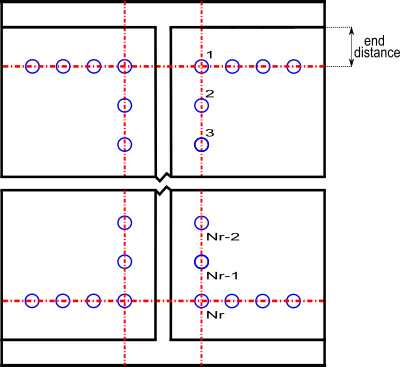
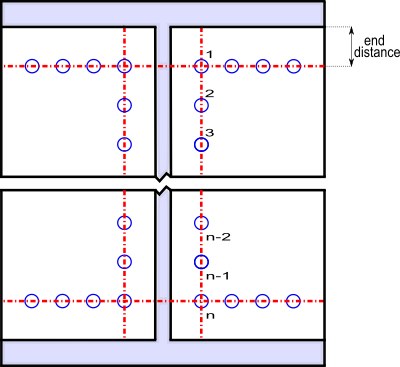
ccep images added

Changed region(s): [[0.0, 0.0, 0.87, 1.0], [0.9, 0.0899, 1.0, 0.1798], [0.87, 0.1499, 0.9, 0.1798]]

diff --git a/design_type/connection/column_end_plate.py b/design_type/connection/column_end_plate.py
@@ -353,14 +353,14 @@ class ColumnEndPlate(MomentConnection):
     def web_bolt_spacing(self, flag):
         web_bolt_spacing = []
 
-        t00 = (None, "", TYPE_NOTE, "Representative Image for Spacing Details - 3 x 3 pattern considered")
+        t00 = (None, "", TYPE_NOTE, "Representative Image for Web Bolt Spacing Details")
         web_bolt_spacing.append(t00)
 
         # t99 = (None, 'Spacing Details', TYPE_SECTION, './ResourceFiles/images/spacing_1.png')
         # spacing.append(t99)
 
         t99 = (None, 'Spacing Details', TYPE_SECTION,
-               ['./ResourceFiles/images/spacing_4.png', 400, 367, ""])  # [image, width, height, caption]
+               ['./ResourceFiles/images/spacing_4.png', 400, 367, "Web Bolt Spacing for (n) Bolts"])  # [image, width, height, caption]
         web_bolt_spacing.append(t99)
         # t2 = (KEY_OUT_PITCH, KEY_OUT_DISP_PITCH, TYPE_TEXTBOX, self.pitch if flag else '', True)
         # web_bolt_spacing.append(t2)
@@ -394,20 +394,48 @@ class ColumnEndPlate(MomentConnection):
     def flange_bolt_spacing(self, flag):
         flange_bolt_spacing = []
 
-        t00 = (None, "", TYPE_NOTE, "Representative Image for Spacing Details - 3 x 3 pattern considered")
+        if self.connection == 'Flush End Plate':
+            image = './ResourceFiles/images/spacing_5.png'
+            x,y = 400,256
+            bolts = int(self.n_bf_output/4)
+        else:
+            image = './ResourceFiles/images/spacing_6.png'
+            x, y = 400, 343
+            bolts = int(self.n_bf_output / 8)
+
+        t00 = (None, "", TYPE_NOTE, "Representative Image for Flange Bolt Spacing Details")
         flange_bolt_spacing.append(t00)
 
         # t99 = (None, 'Spacing Details', TYPE_SECTION, './ResourceFiles/images/spacing_1.png')
         # spacing.append(t99)
         t99 = (None, 'Spacing Details', TYPE_SECTION,
-               ['./ResourceFiles/images/spacing_1.png', 400, 278, ""])  # [image, width, height, caption]
+               [image, x, y, "Top Half Flange Bolt Spacing for (n) Bolts"])  # [image, width, height, caption]
         flange_bolt_spacing.append(t99)
-        t2 = (KEY_OUT_PITCH, KEY_OUT_DISP_PITCH, TYPE_TEXTBOX, self.pitch if flag else '', True)
-        flange_bolt_spacing.append(t2)
+        # t2 = (KEY_OUT_PITCH, KEY_OUT_DISP_PITCH, TYPE_TEXTBOX, self.pitch if flag else '', True)
+        # flange_bolt_spacing.append(t2)
+        for i in range(1, bolts):
+            if (bolts) % 2 == 0:
+                if i != (bolts) / 2:
+                    t2 = (KEY_OUT_PITCH, "Pitch {}-{}".format(i, i + 1), TYPE_TEXTBOX, self.pitch if flag else '', True)
+                    flange_bolt_spacing.append(t2)
+                else:
+                    t2 = (KEY_OUT_PITCH, "Pitch {}-{}".format(i, i + 1), TYPE_TEXTBOX, round(self.p_2_flange,2) if flag else '',
+                    True)
+                    flange_bolt_spacing.append(t2)
+            else:
+                if i != int((bolts) / 2) and i != int((bolts) / 2) + 1:
+                    t2 = (KEY_OUT_PITCH, "Pitch {}-{}".format(i, i + 1), TYPE_TEXTBOX, self.pitch if flag else '', True)
+                    flange_bolt_spacing.append(t2)
+                else:
+
+                    t2 = (
+                    KEY_OUT_PITCH, "Pitch {}-{}".format(i, i + 1), TYPE_TEXTBOX, round(self.p_2_flange,2) if flag else '',
+                    True)
+                    flange_bolt_spacing.append(t2)
 
         t3 = (KEY_OUT_END_DIST, KEY_OUT_DISP_END_DIST, TYPE_TEXTBOX, self.end_dist if flag else '', True)
         flange_bolt_spacing.append(t3)
-        t4 = (KEY_OUT_NO_BOLTS_FLANGE, KEY_OUT_DISP_NO_BOLTS_FLANGE, TYPE_TEXTBOX, self.n_bf_output if flag else '', True)
+        t4 = (KEY_OUT_NO_BOLTS_FLANGE, KEY_OUT_DISP_NO_BOLTS_FLANGE, TYPE_TEXTBOX, bolts if flag else '', True)
         flange_bolt_spacing.append(t4)
         t5 = (KEY_PITCH_2_FLANGE1, KEY_DISP_PITCH_2_FLANGE1, TYPE_TEXTBOX, round(self.p_2_flange,2) if flag else '', True)
         flange_bolt_spacing.append(t5)

diff --git a/gui/ui_template.py b/gui/ui_template.py
@@ -20,6 +20,7 @@ from gui.ui_ask_question import Ui_AskQuestion
 from design_type.connection.column_cover_plate import ColumnCoverPlate
 from PIL import Image
 from texlive.Design_wrapper import init_display as init_display_off_screen
+# from OCC.Display.backend import off
 import os
 import yaml
 import json
@@ -200,7 +201,7 @@ class Window(QMainWindow):
             off_display, _, _, _ = init_display_off_screen(backend_str=backend_name())
             self.commLogicObj.display = off_display
             self.commLogicObj.display_3DModel("Model", "gradient_bg")
-            off_display.set_bg_gradient_color([255, 255, 255], [255, 255, 255])
+            # off_display.set_bg_gradient_color([51, 51, 102], [150, 150, 170])
             off_display.ExportToImage('./ResourceFiles/images/3d.png')
             off_display.View_Front()
             off_display.FitAll()

diff --git a/Common.py b/Common.py
@@ -1518,9 +1518,9 @@ KEY_OUT_DISP_MEMB_BLK_SHEAR = 'Block Shear Capacity'
 
 
 KEY_OUT_NO_BOLTS_FLANGE = 'ColumnEndPlate.nbf'
-KEY_OUT_DISP_NO_BOLTS_FLANGE = 'No. of bolts along Flange'
+KEY_OUT_DISP_NO_BOLTS_FLANGE = 'No. of bolts along One Side of Flange Overhang (n)'
 KEY_OUT_NO_BOLTS_WEB = 'ColumnEndPlate.nbw'
-KEY_OUT_DISP_NO_BOLTS_WEB = 'No. of bolts along One Side of Web (Nr)'
+KEY_OUT_DISP_NO_BOLTS_WEB = 'No. of bolts along One Side of Web (n)'
 KEY_OUT_NO_BOLTS = 'ColumnEndPlate.nb'
 KEY_OUT_DISP_NO_BOLTS = 'Total no. of Bolts'
 KEY_PITCH_2_FLANGE = 'ColumnEndPlate.p2_flange'
